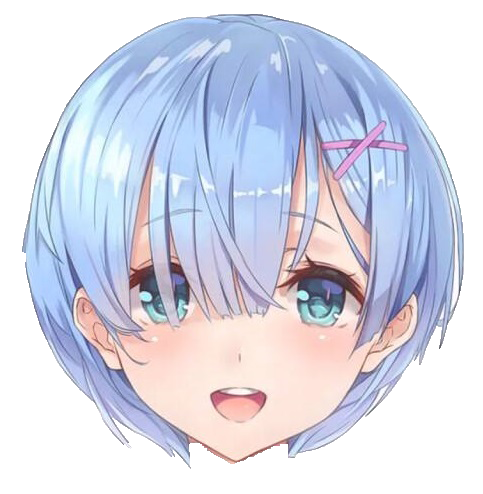
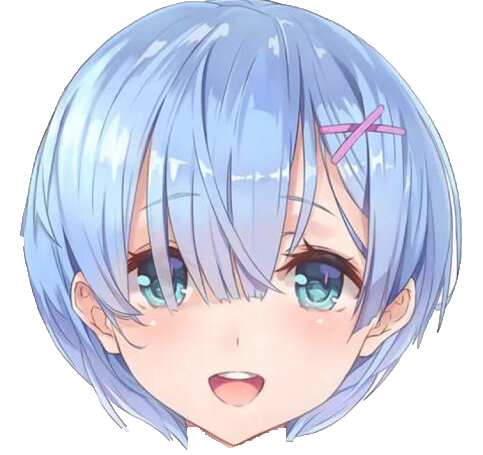
add function superpose()

Changed region(s): [[0.0311, 0.0, 0.9627, 0.9846]]

diff --git a/change_face.py b/change_face.py
@@ -1,10 +1,11 @@
 from cv2 import cv2
 from Modules.HeadPos import HeadPos
 from Modules.Stabilizer import Stabilizer
+from Modules.superpose import *
 import dlib
 import numpy as np
 import math
-from superpose import *
+
 
 if __name__ == '__main__':
     cap = cv2.VideoCapture(0)
@@ -16,54 +17,19 @@ if __name__ == '__main__':
         ret, _, _, _ = hp.update()
         if ret != False:
             _, im = hp.getCurrentImage()
-            im_b, im_g, im_r = cv2.split(im)
-            im_alpha =  np.ones(im_b.shape, dtype=im_b.dtype)*255
-            im = cv2.merge((im_b, im_g, im_r, im_alpha))
-            _, steady_box, deg = hp.getFaceBox(expand=True, w_rate=1.2, h_rate=1.4)
+            _, steady_box, _ = hp.getFaceBox(expand=True, w_rate=1.2, h_rate=1.5)
+            im = superpose(im, steady_box, img_target)
             # cv2.drawContours(im, [steady_box], 0, (0, 0, 255, 100), 3)
-
-            deg = getBoxDegree(steady_box)
-            newbox, box_width, box_height = getNewBox(steady_box, 483, 494, deg)
-            img_target_rt = cv2.resize(img_target, (int(box_width), int(box_height)))
-            if deg < -45:
-                img_target_rt = rotateImg(img_target_rt, 90+deg)
-            else:
-                img_target_rt = rotateImg(img_target_rt, deg)
-            sp_target = img_target_rt.shape
-            tg_wd = sp_target[0]
-            tg_ht = sp_target[1]
-            _,_,_,mask = cv2.split(img_target_rt)
-            mask = 255 - mask
-            mask = cv2.normalize(mask, mask, 0, 1, cv2.NORM_MINMAX)
-            # cv2.imshow("mask",mask)
-            normbox = getSrcArea(im, newbox)
-            src_frame = im[normbox[1]:normbox[1]+tg_wd, normbox[0]:normbox[0]+tg_ht]
-            #frame_add = np.multiply(src_frame, mask) + img_target_rt
-            src_frame_b, src_frame_g, src_frame_r, src_frame_alpha = cv2.split(src_frame)
-            src_frame_b = src_frame_b * mask
-            src_frame_g = src_frame_g * mask
-            src_frame_r = src_frame_r * mask
-            src_frame_alpha = src_frame_alpha * mask
-            src_frame = cv2.merge((src_frame_b, src_frame_g, src_frame_r, src_frame_alpha))
-            frame_add = src_frame + img_target_rt
-            im[normbox[1]:normbox[1]+tg_wd, normbox[0]:normbox[0]+tg_ht] = frame_add
-
-            normbox = np.array([[normbox[0], normbox[1]], [normbox[2], normbox[1]], [
-                                normbox[2], normbox[3]], [normbox[0], normbox[3]]])
             # cv2.drawContours(im, [newbox], 0, (255, 255, 255, 100), 3)
             # cv2.drawContours(im, [normbox], 0, (0, 255, 255, 100), 3)
-            cv2.imshow("target_org", img_target)
-            cv2.imshow("frame", src_frame)
-            cv2.imshow("target", img_target_rt)
-        # x_min = np.min(box[:][0])
-        # x_max = np.max(box[:][0])
-        # y_min = np.min
+            # cv2.imshow("target_org", img_target)
+            # cv2.imshow("frame", src_frame)
+            # cv2.imshow("target", img_target_rt)
+            # cv2.rectangle(im, (d_left, d_top), (d_right, d_bottom), (255, 0, 0), -1)
 
-        # cv2.rectangle(im, (d_left, d_top), (d_right, d_bottom), (255, 0, 0), -1)
-
-        # for point in points:
-        #     cv2.circle(im, (int(point[0]), int(
-        #         point[1])), 1, (255, 0, 0), thickness=-1)
+            # for point in points:
+            #     cv2.circle(im, (int(point[0]), int(
+            #         point[1])), 1, (255, 0, 0), thickness=-1)
         else:
             _, im = hp.getCurrentImage()
         cv2.imshow("TEST", im)

diff --git a/Modules/superpose.py b/Modules/superpose.py
@@ -2,7 +2,41 @@ from cv2 import cv2
 import numpy as np
 import math
 
-# def superpose(img, box, target):
+
+def superpose(im, box, img_target):
+
+    im_b, im_g, im_r = cv2.split(im)
+    im_alpha =  np.ones(im_b.shape, dtype=im_b.dtype)*255
+    im = cv2.merge((im_b, im_g, im_r, im_alpha))
+
+    deg = getBoxDegree(box)
+    newbox, box_width, box_height = getNewBox(box, 483, 494, deg)
+    img_target_rt = cv2.resize(img_target, (int(box_width), int(box_height)))
+    if deg < -45:
+        img_target_rt = rotateImg(img_target_rt, 90+deg)
+    else:
+        img_target_rt = rotateImg(img_target_rt, deg)
+    sp_target = img_target_rt.shape
+    tg_wd = sp_target[0]
+    tg_ht = sp_target[1]
+    _,_,_,mask = cv2.split(img_target_rt)
+    mask = 255 - mask
+    mask = cv2.normalize(mask, mask, 0, 1, cv2.NORM_MINMAX)
+    # cv2.imshow("mask",mask)
+    normbox = getSrcArea(im, newbox)
+    src_frame = im[normbox[1]:normbox[1]+tg_wd, normbox[0]:normbox[0]+tg_ht]
+    #frame_add = np.multiply(src_frame, mask) + img_target_rt
+    src_frame_b, src_frame_g, src_frame_r, src_frame_alpha = cv2.split(src_frame)
+    src_frame_b = src_frame_b * mask
+    src_frame_g = src_frame_g * mask
+    src_frame_r = src_frame_r * mask
+    src_frame_alpha = src_frame_alpha * mask
+    src_frame = cv2.merge((src_frame_b, src_frame_g, src_frame_r, src_frame_alpha))
+    frame_add = src_frame + img_target_rt
+    im[normbox[1]:normbox[1]+tg_wd, normbox[0]:normbox[0]+tg_ht] = frame_add
+
+    return im
+
 
 def getBoxDegree(box, origin_deg=None):
     if origin_deg is not None:
@@ -89,26 +123,18 @@ def expandFromBottom(box, width, height, deg):
 
 
 def rotateImg(image, angle):
-    # grab the dimensions of the image and then determine the
-    # center
     (h, w) = image.shape[:2]
     (cX, cY) = (w // 2, h // 2)
  
-    # grab the rotation matrix (applying the negative of the
-    # angle to rotate clockwise), then grab the sine and cosine
-    # (i.e., the rotation components of the matrix)
     M = cv2.getRotationMatrix2D((cX, cY), -angle, 1.0)
     cos = np.abs(M[0, 0])
     sin = np.abs(M[0, 1])
  
-    # compute the new bounding dimensions of the image
     nW = int((h * sin) + (w * cos))
     nH = int((h * cos) + (w * sin))
  
-    # adjust the rotation matrix to take into account translation
     M[0, 2] += (nW / 2) - cX
     M[1, 2] += (nH / 2) - cY
  
-    # perform the actual rotation and return the image
     return cv2.warpAffine(image, M, (nW, nH), borderValue=(255,255,255,0))
  
